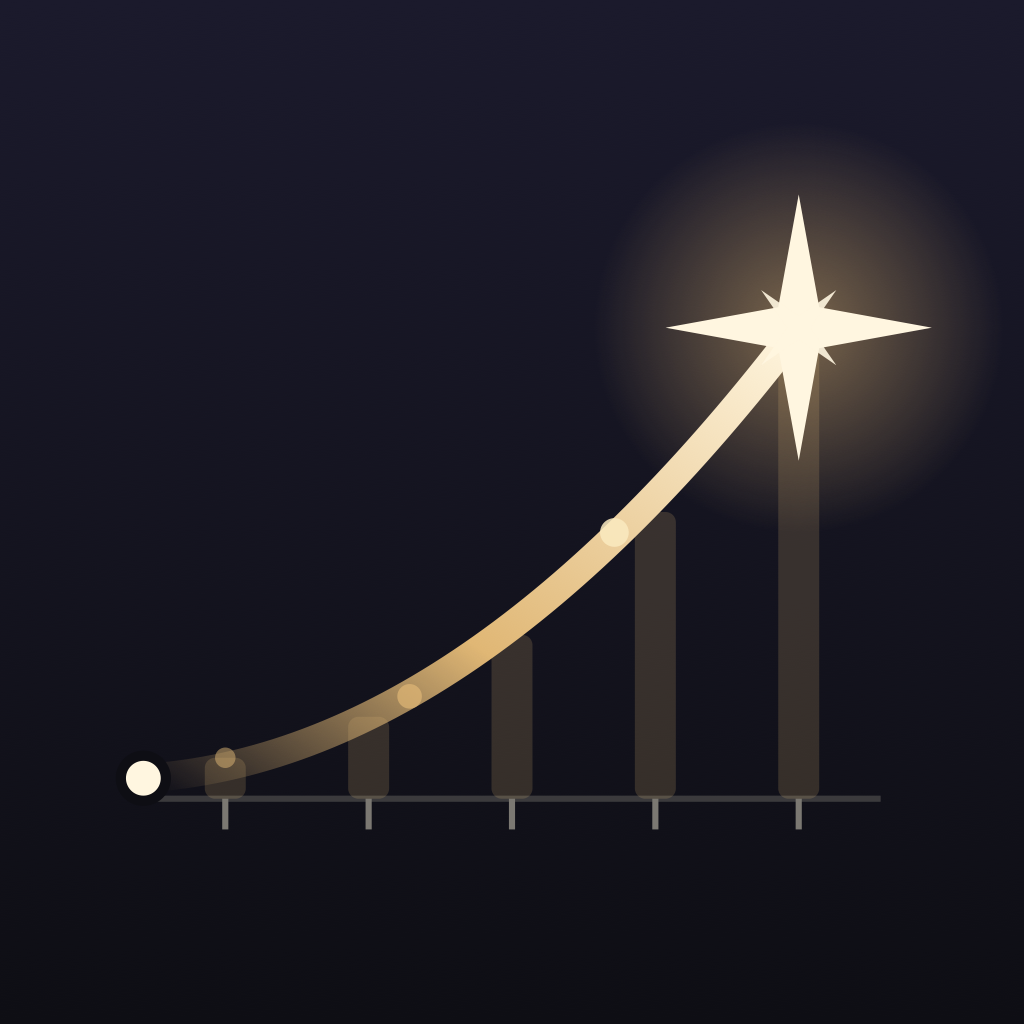
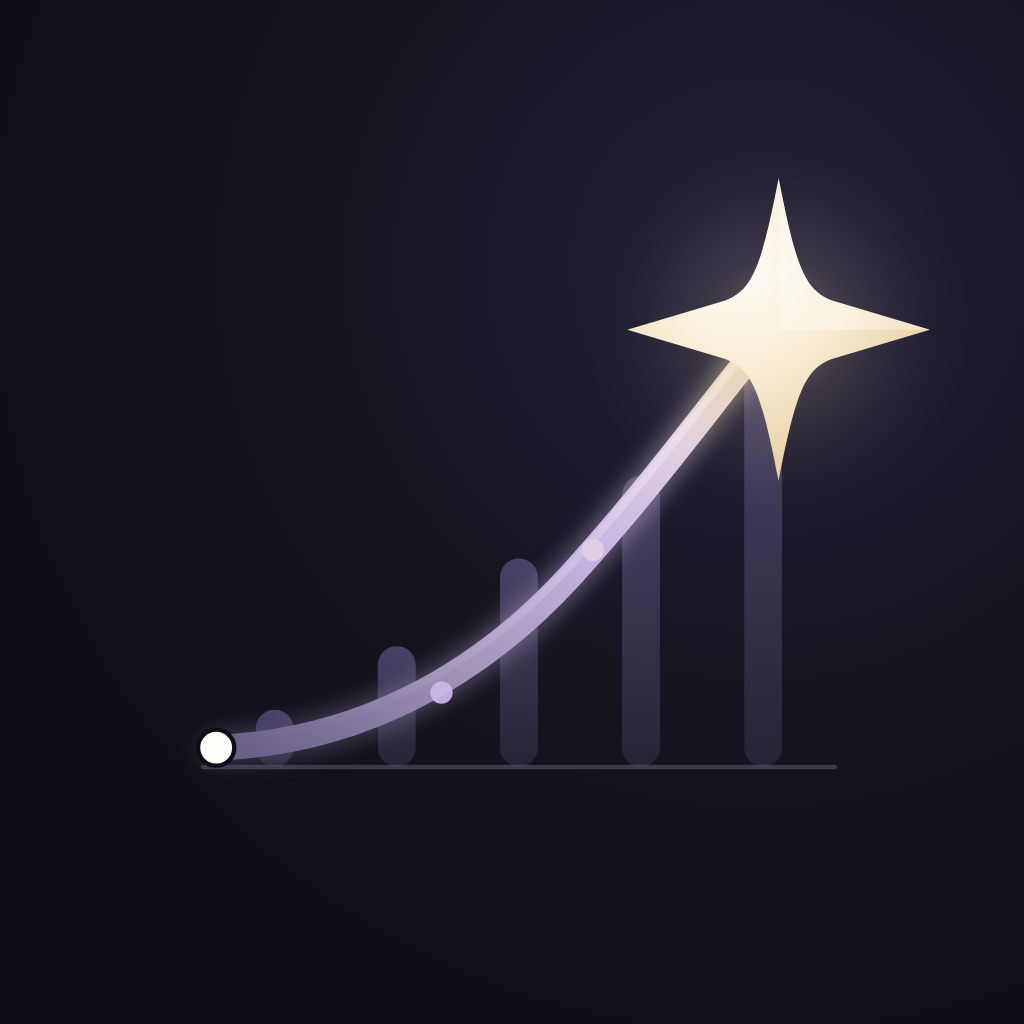
feat(app): rename to Rituals and redraw the mark in the liquid materials
- display name is now Rituals, on iOS and on the web app. The slug and bundle
  identifier are unchanged, so this stays the same app in TestFlight and App
  Store Connect rather than becoming a new one
- the logo keeps its shape — a compounding curve rising into a north star over
  the record — but is redrawn in the app's own palette: an ink ground, the
  sculpture's pearl warming into the star's gold, rounded caps and a soft glow
  in place of the old hard flare
- the mark is inset so the iOS squircle never clips the star, checked at 180,
  120 and 60 points
- the splash mark is transparent so it sits on the ink ground rather than on a
  dark square, and the splash and web theme colours follow the liquid palette

Claude-Session: https://claude.ai/code/session_011fAkJtc6jk3TZrg3Td41Xv

Changed region(s): [[0.125, 0.1875, 0.9375, 0.8125]]

diff --git a/mobile/src/api/client.ts b/mobile/src/api/client.ts
@@ -1,5 +1,5 @@
 /**
- * API client for Mastery Tracker backend.
+ * API client for the Rituals backend.
  * API_URL / API_KEY resolution order:
  * 1. Settings saved on the device (Me → Server) — changeable without a rebuild
  * 2. Runtime /config.json (web only)
